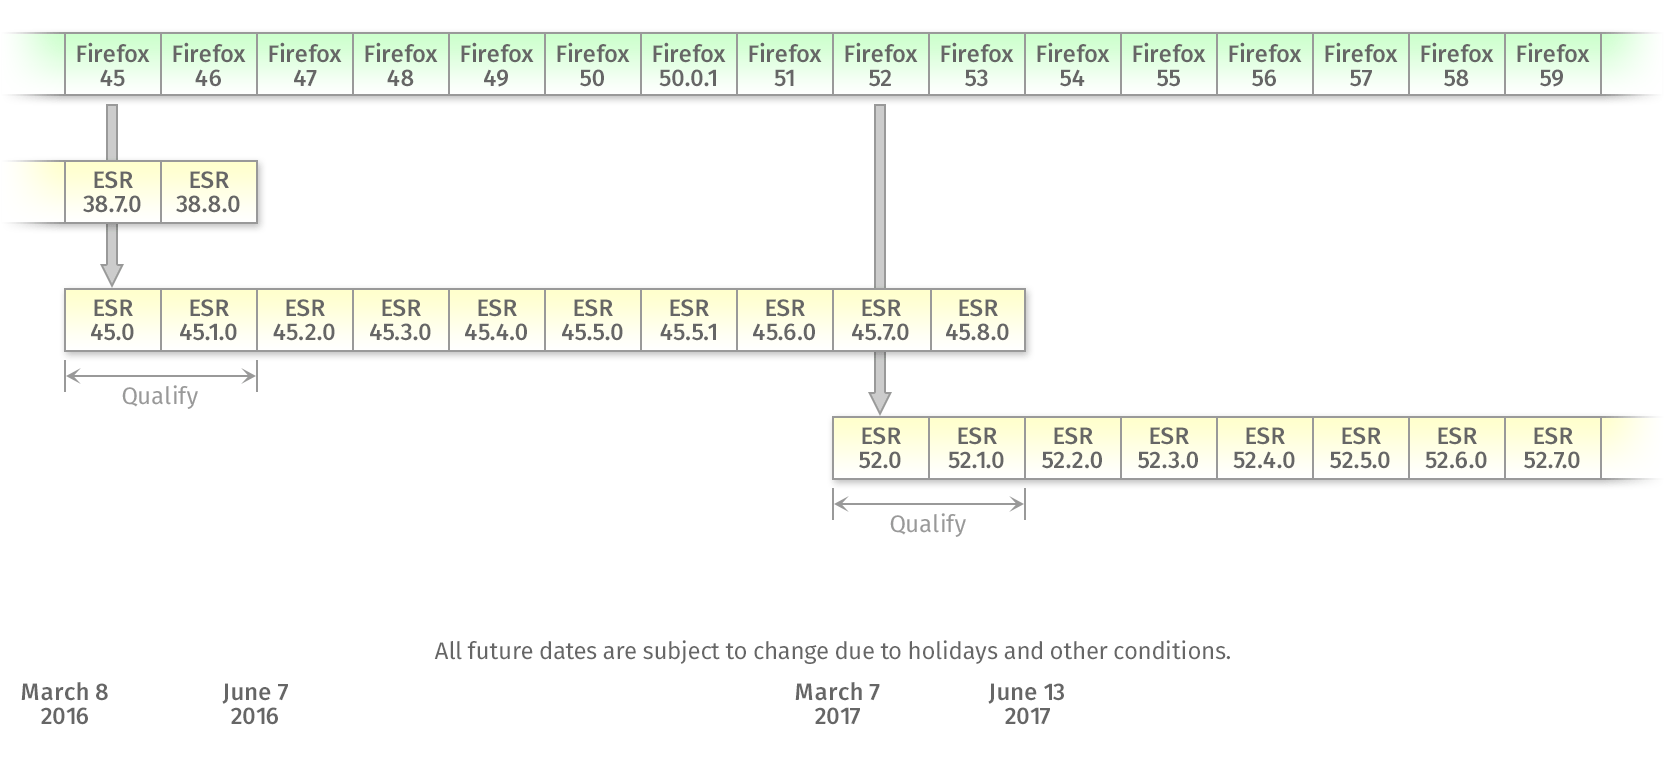
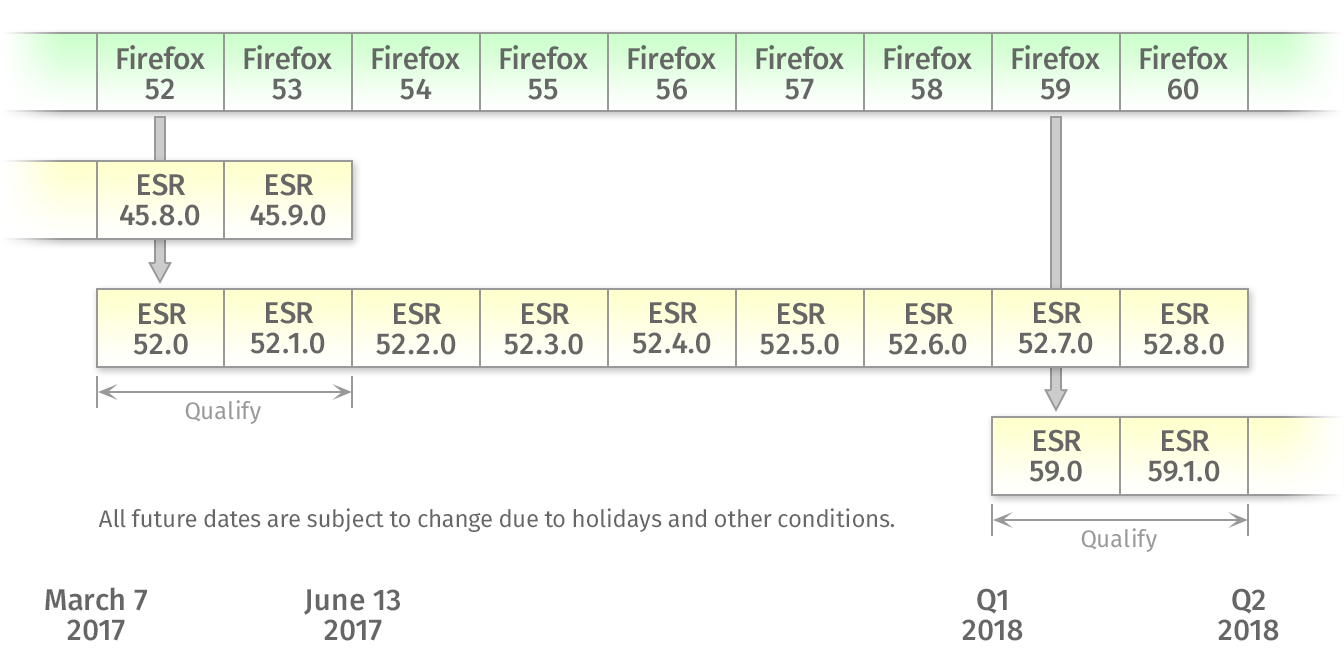
Fix Bug 1333291 - Update Firefox ESR release overview image for ESR 52

diff --git a/bedrock/firefox/templates/firefox/organizations/faq.html b/bedrock/firefox/templates/firefox/organizations/faq.html
@@ -58,7 +58,7 @@
 {% endtrans %}
 </p>
 
-<p><a href="{{ static('img/firefox/organizations/release-overview-high-res.png') }}">{{ high_res_img('firefox/organizations/release-overview.png', {'alt': _('Firefox ESR Release Overview'), 'width': '832', 'height': '384', 'id': 'release-overview'}) }}</a></p>
+<p><a href="{{ static('img/firefox/organizations/release-overview-high-res.png') }}">{{ high_res_img('firefox/organizations/release-overview.png', {'alt': _('Firefox ESR Release Overview'), 'width': '672', 'height': '336', 'id': 'release-overview'}) }}</a></p>
 
 <p>
 {% trans %}
